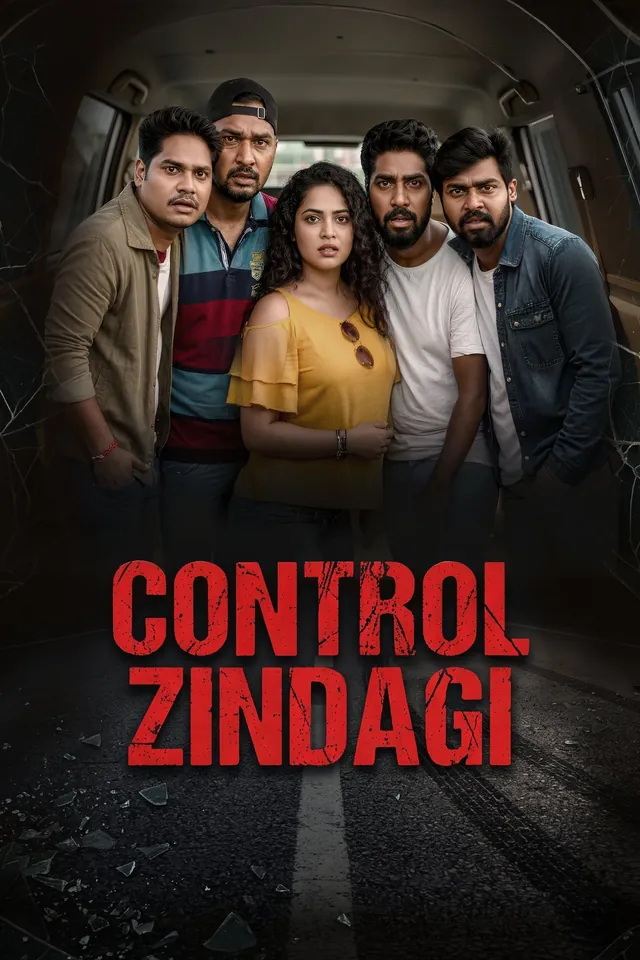
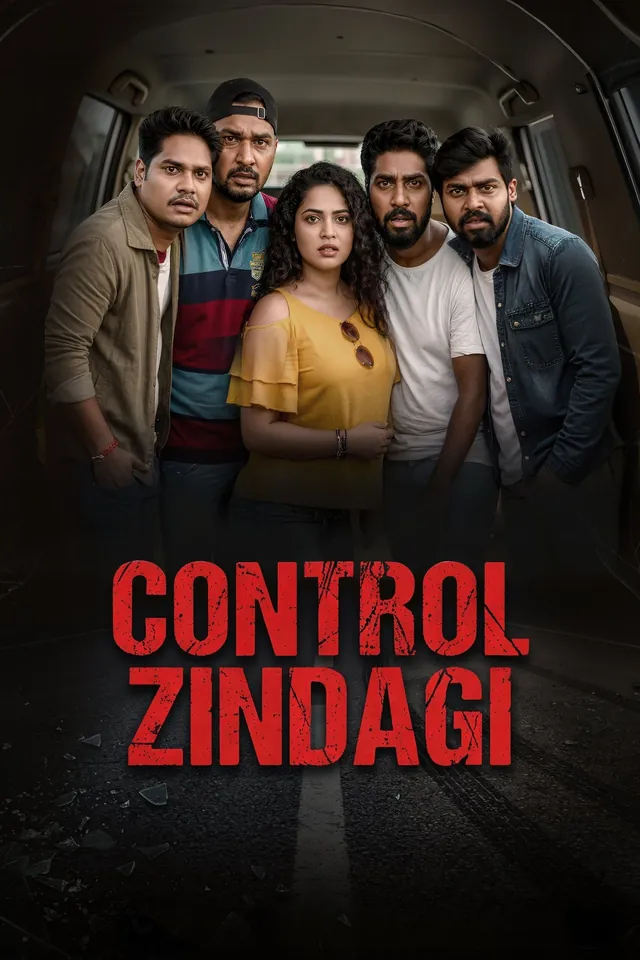
Control Zindagi: cleaner round-2 posters (no glass overlay)
- Cover 16:9, Poster 2:3 and Square 1:1 replaced with the cleaner versions
- Round-2 description updated to match

diff --git a/src/data/recentWorks.tsx b/src/data/recentWorks.tsx
@@ -979,7 +979,7 @@ export const recentWorks: RecentWork[] = [
         <ul>
           <li>
             <b>From posed to the story’s turning point:</b> the five friends packed into the open van, staring out in
-            shock, with shattered glass and skid marks on the road. The poster now sells the tension, not just the cast.
+            shock above the empty road. The poster now sells the tension, not just the cast.
           </li>
           <li>
             <b>Title:</b> the thin neon outline became a bold, distressed red lockup that stays readable at thumbnail
